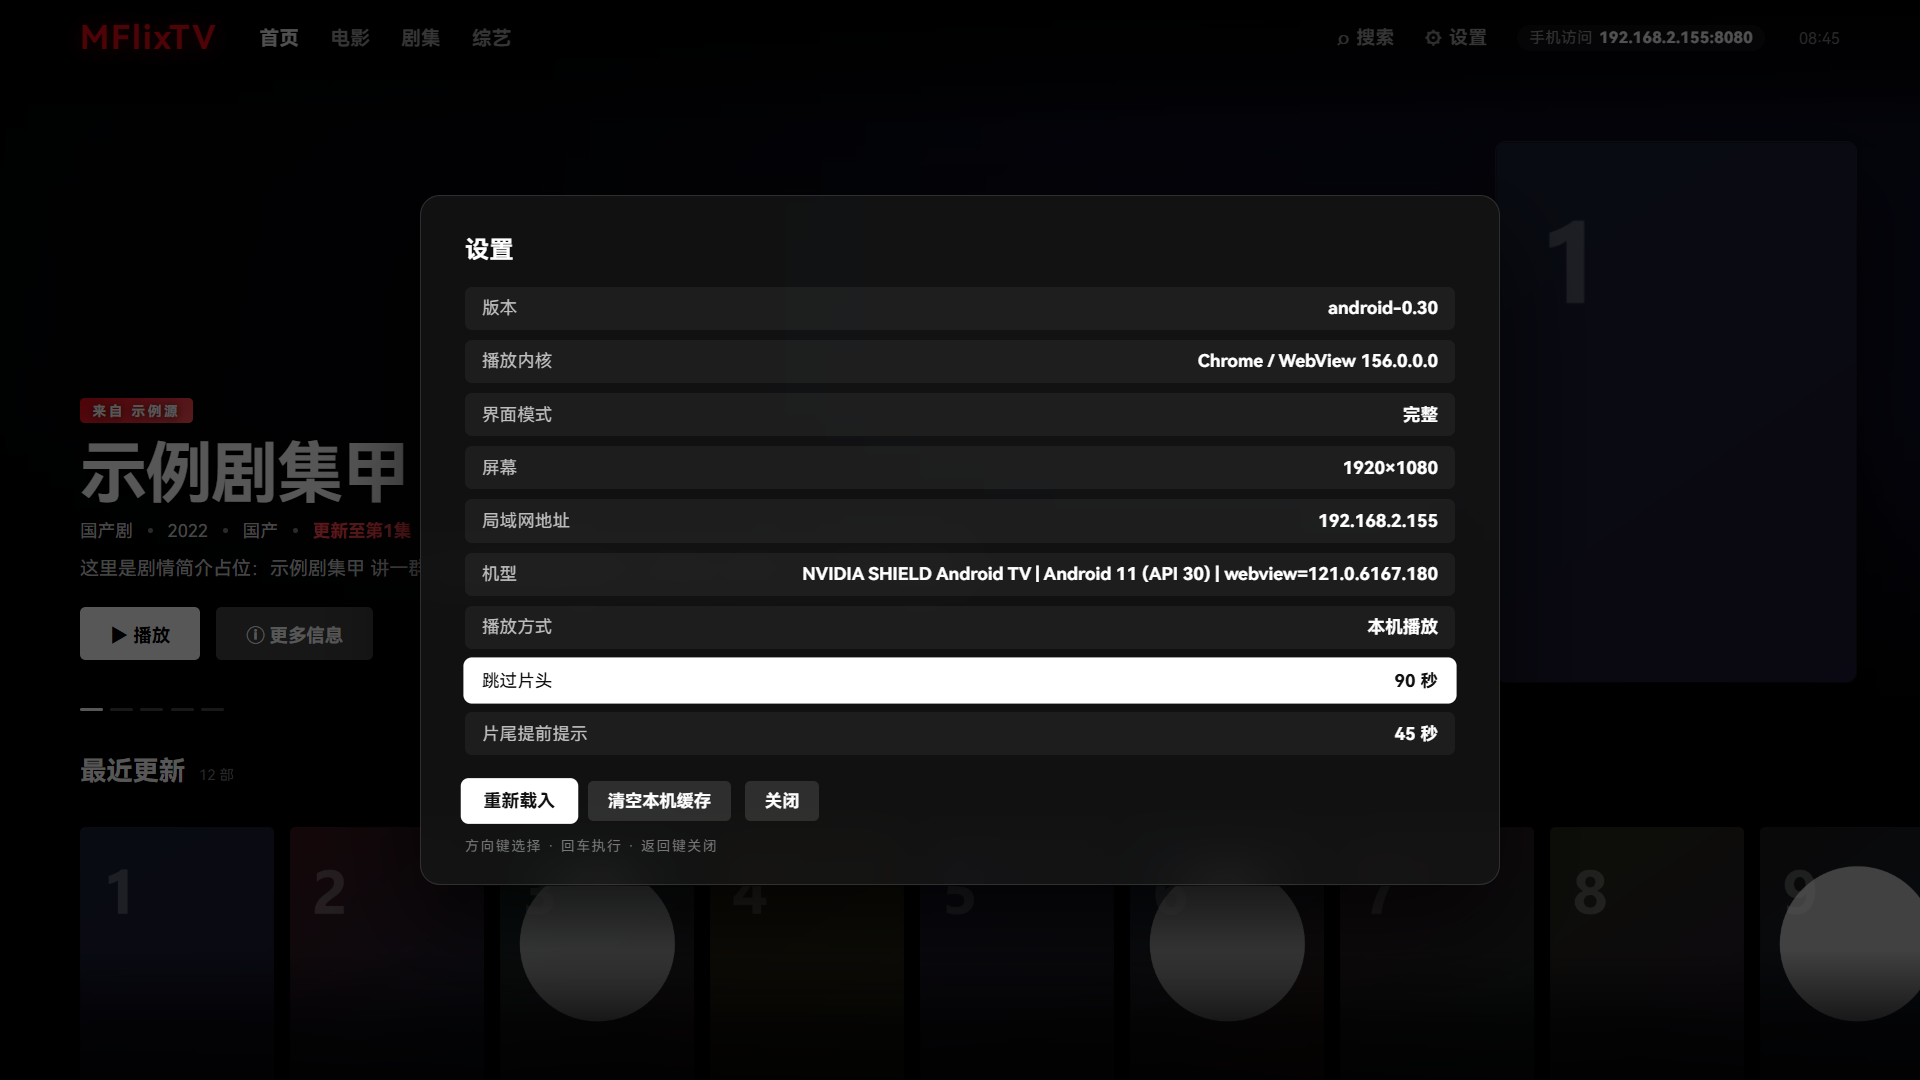
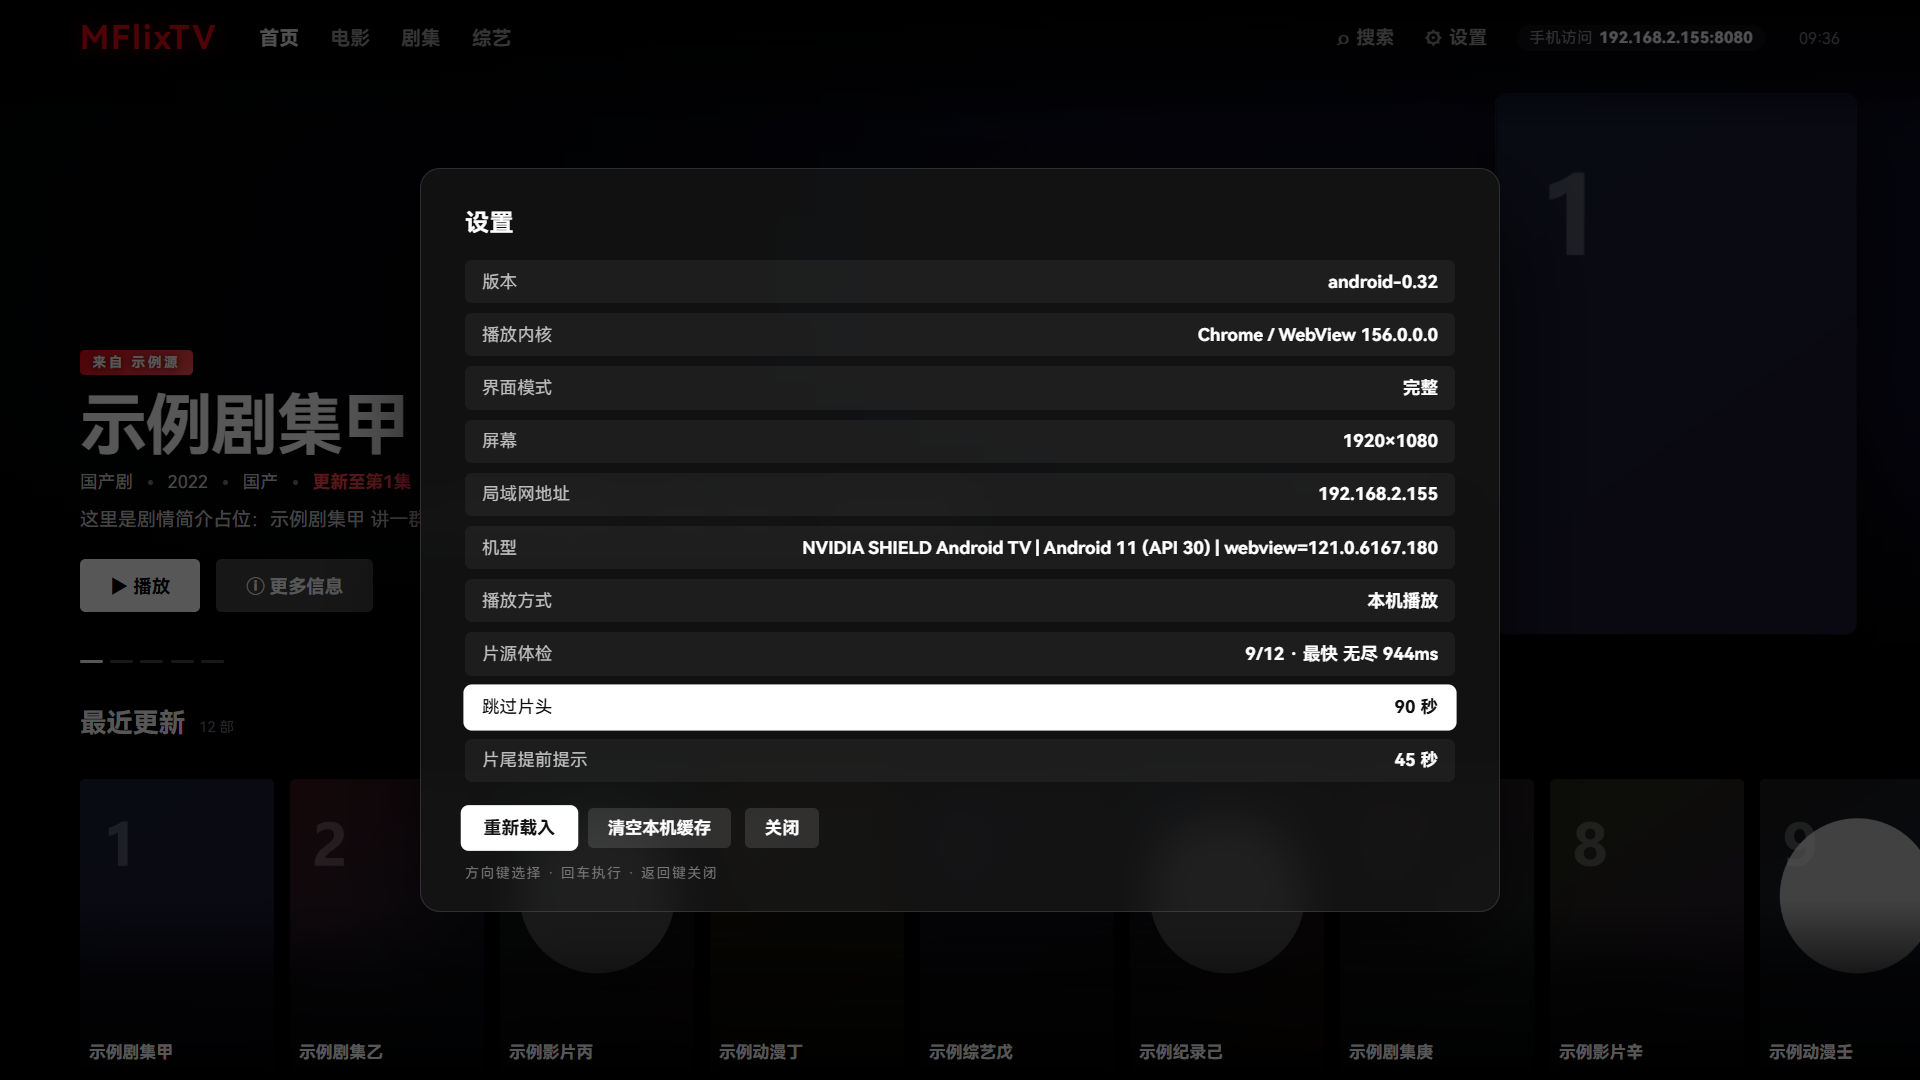
android 0.32 收尾：手机端源列表按延迟排 + 体检记录随源列表裁剪，文档与设置页截图补齐

diff --git a/android/app/src/main/assets/index.html b/android/app/src/main/assets/index.html
@@ -723,8 +723,12 @@
         <button id="sProxySave">保存代理</button>
         <button id="sProxyClear">清除</button>
       </div>
-      <div class="row-btns"><button class="primary" id="sDiag">源站自检</button></div>
+      <div class="row-btns">
+        <button class="primary" id="sDiag">源站测速</button>
+        <button id="sFix">重新获取片源</button>
+      </div>
       <div id="sDiagBox"></div>
+      <div class="hint">「源站测速」会并发打一遍所有源，按耗时排序，慢的沉到后面；一个都不通时会自动去远端把源清单拉回来。「重新获取片源」是手动触发同一件事。</div>
       <div class="hint">代理填手机上梯子的 HTTP 端口（v2ray / Clash 都可）。留空表示直连；改完会重新取一次片单。</div>
     </div>
 
@@ -2539,26 +2543,54 @@
   }
   $('sProxySave').onclick = function () { saveProxy(($('sProxyIn').value || '').trim()); };
   $('sProxyClear').onclick = function () { $('sProxyIn').value = ''; saveProxy(''); };
+  /** 手机端源列表：按体检结果排（通的、快的在前），并标出失败次数。 */
+  function paintHealth(d) {
+    var list = (d && d.list) || [];
+    var html = '<div class="hint">' + (d && d.ok ? d.ok : 0) + '/' + (d && d.total ? d.total : list.length) +
+      ' 个源可用' +
+      (d && d.fastest && d.fastest !== '—' ? ('　最快：' + esc(d.fastest)) : '') +
+      (d && d.ok === 0 ? '　<b style="color:#e5a100">一个都不通，已自动去远端找源</b>' : '') + '</div>';
+    list.forEach(function (s) {
+      var color = s.ok ? '#3ddc84' : '#e5a100';
+      html += '<div class="src-item" style="border-color:#161616"><div style="flex:1;min-width:0">' +
+        '<div class="nm">' + esc(s.name) + ' <span style="color:' + color + ';font-size:11px">' +
+        (s.ok ? ('通 · ' + (s.ms | 0) + 'ms · ' + (s.items | 0) + '条') : ('不通' + (s.fails > 1 ? ' ×' + s.fails : ''))) +
+        '</span></div>' +
+        '<div class="bs">' + esc(s.base) + (s.err ? ('<br><span style="color:#8a6d3b">' + esc(s.err) + '</span>') : '') +
+        '</div></div></div>';
+    });
+    $('sDiagBox').innerHTML = html;
+  }
   $('sDiag').onclick = function () {
-    $('sDiagBox').innerHTML = '<div class="hint">正在逐个探测（最多十几秒）…</div>';
-    fetch('/api/diag?force=1')
+    $('sDiagBox').innerHTML = '<div class="hint">正在并发测速（约 5 秒）…</div>';
+    fetch('/api/sources/health?force=1')
       .then(function (r) { return r.json(); })
       .then(function (d) {
-        var list = d.sources || [];
-        var html = '<div class="hint">' + (d.ok || 0) + '/' + list.length + ' 个源可用' +
-          (d.proxy ? ('　代理：' + esc(d.proxy)) : '　未设代理') + '</div>';
-        list.forEach(function (s) {
-          var color = s.ok ? '#3ddc84' : '#e5a100';
-          html += '<div class="src-item" style="border-color:#161616"><div style="flex:1;min-width:0">' +
-            '<div class="nm">' + esc(s.name) + ' <span style="color:' + color + ';font-size:11px">' +
-            (s.ok ? '通' : '不通') + ' · ' + (s.ms | 0) + 'ms</span></div>' +
-            '<div class="bs">' + esc(s.base) + (s.err ? ('<br><span style="color:#8a6d3b">' + esc(s.err) + '</span>') : '') +
-            '</div></div></div>';
-        });
-        $('sDiagBox').innerHTML = html;
+        paintHealth(d);
+        if (d && d.ok > 0) toast('片源可用 ' + d.ok + '/' + d.total);
+        else toast('一个源都不通，已在自动找源');
       })
-      .catch(function (e) { $('sDiagBox').innerHTML = '<div class="hint">自检失败：' + esc(e.message) + '</div>'; });
+      .catch(function (e) { $('sDiagBox').innerHTML = '<div class="hint">测速失败：' + esc(e.message) + '</div>'; });
   };
+  $('sFix').onclick = function () {
+    $('sDiagBox').innerHTML = '<div class="hint">正在从远端取源清单并测速…</div>';
+    fetch('/api/sources/autofix')
+      .then(function (r) { return r.json(); })
+      .then(function (d) {
+        paintHealth(d);
+        toast(d && d.added ? ('找回了 ' + d.added + ' 个新源') : '源清单已是最新');
+        fetch('/api/sources').then(function (r) { return r.json(); }).then(function (s) {
+          SET.list = s.list || [];
+          SET.builtin = s.builtin || [];
+          renderSources();
+        }).catch(function () {});
+        loadHome(true);
+      })
+      .catch(function (e) { $('sDiagBox').innerHTML = '<div class="hint">获取失败：' + esc(e.message) + '</div>'; });
+  };
+  /** 打开设置时先把上次的体检结果摆出来（不阻塞、不重测） */
+  fetch('/api/sources/health').then(function (r) { return r.json(); })
+    .then(paintHealth).catch(function () {});
   function renderSources() {
     var list = SET.list;
     $('sSrcCnt').textContent = list.length ? ('共 ' + list.length + ' 个') : '';

diff --git a/android/app/src/main/java/com/mflixtv/app/SourceHealth.kt b/android/app/src/main/java/com/mflixtv/app/SourceHealth.kt
@@ -146,6 +146,7 @@ object SourceHealth {
     }
 
     fun snapshot(): JSONObject {
+        prune()
         val arr = JSONArray()
         map.values.sortedWith(compareByDescending<H> { it.ok }.thenBy { if (it.ms == 0) 999999 else it.ms })
             .forEach {
@@ -193,6 +194,18 @@ object SourceHealth {
     }
 
     fun okCount(): Int = map.values.count { it.ok }
+
+    /**
+     * 用户在设置里删掉源以后，体检记录里还留着它 —— 列表里就会一直挂着一个「不通」的死条目。
+     * 每次取快照前按当前源列表裁一遍。
+     */
+    private fun prune() {
+        val alive = Sources.ALL.map { it.base }.toSet()
+        if (map.keys.any { it !in alive }) {
+            map = LinkedHashMap(map.filterKeys { it in alive })
+            persist()
+        }
+    }
 
     /**
      * 维护：缓存过期就跑一次体检；体检完一个源都不通，就自动去远端把源清单更新回来再测一遍。

diff --git a/README.md b/README.md
@@ -196,6 +196,7 @@ MFlixTV 页面 → /hg-api/* → 本机第三方内核 hongguo-web(127.0.0.1:800
 - **全屏与横屏**（0.15）：右下角「全屏」键走原生桥——真转横屏 + 收起状态栏 / 导航栏 + 屏幕常亮，再点回竖屏；旋转键是开关（横 ↔ 竖）。WebView 的 HTML5 全屏也补上了 `onShowCustomView`，`<video>` 自带的全屏键、返回键退全屏都能用。以前这键只弹一句「WebView 不支持系统全屏」、也不转横屏，属于真 bug（浏览器里打开同一个地址是全屏正常的，因为浏览器自己实现了全屏）
 - **iPhone / iPad 看网页版也能真全屏**（0.16 / 0.17）：别的手机用浏览器打开 `http://手机IP:8080` 时，iOS 的 Safari 和 Chrome 都没有元素级全屏 API（原来只会弹一句「不支持系统全屏」）。现在播放器全屏分三层——App 内走原生桥，电脑和安卓浏览器走标准全屏 API，iPhone / iPad 走 `<video>` 自带的 `webkitEnterFullscreen()` 系统全屏（横过来就是满屏）；万一机芯不给，600ms 后自动兜底成「页面内铺满 + 强制横屏」。iOS 上同时优先原生 HLS 硬解（更快更省电），**原生拉不动会自动退回 hls.js，不会出现「这个地址播不了」卡死**；代理返回分片时也按扩展名补 `video/mp2t` / `video/mp4` 类型，Safari 认这个
 - **电视版 TV 界面**（0.18）：**同一个 APK**，装到电视 / 电视盒子上会自动认出并进 10 英尺界面（Leanback / `UI_MODE_TYPE_TELEVISION` / 无触摸屏任一命中；也可 `adb shell am start -n com.mflixtv.app/.MainActivity --ez tv true` 强制），装在手机上还是原来的手机界面。顶部横排文字导航（首页 / 电影 / 剧集 / 综艺 / 搜索）；焦点在海报上滑动时整页背景与片名跟着换（停 240ms 才换，快速滑动不闪），焦点卡放大 1.16 倍 + 白描边 + 红辉光、同排其它压暗；详情页剧集是 16:9 卡片 5 列平铺，回车直接播；搜索用方向键走字母键盘，出结果后热门搜索自动收起。遥控器方向键 / 回车 / 菜单键由原生 `dispatchKeyEvent` 转给页面（WebView 自己那套一次会动两格），返回键分层退（播放器 → 详情 → 首页）。电视浏览器或电脑上想试电视界面，开 `http://手机IP:8080/tv`
+- **片源自动测速 / 后台维护 / 没源自己找回来（0.32）**：每次体检记下每个源的**延迟、返回条数、连续失败次数**，首页每一行与搜索按延迟从快到慢取源（真机实测：豪华 293ms → 非凡 373ms → 百度云 556ms → … 8/12 可用），连续失败 3 次的源沉到末尾不再参与取源、但不会从列表里删掉。体检缓存 30 分钟，过期后先给上次结果再后台重测；启动时补一次、常驻服务每 30 分钟敲一次。**一个源都不通时会自己去把源找回来**：按 jsDelivr → fastly → GitHub 原始链接 → ghproxy 镜像的顺序拉仓库根目录的 `sources.json`，合并去重写回本地再重测；拉不到就什么都不做，本地源原样保留。电视端设置页多一行「片源体检 9/12 · 最快 无尽 944ms」，按一下当场重测；手机端「源站测速」按延迟列出每个源，旁边是「重新获取片源」
 - **首屏整行可见 + 返回原地还原（0.31）**：首页大图以前写死 68vh，真机上第一行卡片底沿会掉出屏幕（1080p 多 38px、720p 多 26px），刚打开电视只能看到半张卡。现在按实测算——先按 68vh 摆好，量第一张卡的底沿，多出来多少就收多少（下限 0.44vh，矮窗口不会把片名顶掉），换分辨率 / 转屏 / 改 DPI 自动重算；1920×1080 收到 686、1280×720 收到 454、4:3 本来够就不动，三种形态实测整卡可见。另外，在第五行点开一部片再按返回，不再被弹回顶部：滚动位置和焦点卡都原地还原（记录行重建过就按片名重新认一次，还原时临时关掉「焦点自动滚进视野」免得位置被自己滚跑）
 - **电视端「继续观看 / 我的列表」+ 追剧连播（0.30）**：电视界面首页第一行不再是分类，而是**你这台机器上没看完的片子**——海报底部一条红色进度，上面一行「第N集 · 剩46分」，按一下**直接接着播**，自动找回上次的线路、集数、时间点（按集名优先认，对不上才退回序号），不用再进详情页翻选集；详情页多出第四颗按钮「+ 我的列表」，加过的会亮着，列表同样单独一行。一部没看过时这一行整个不出现。设置页新增两项可点设置，遥控器按一下切一档、不用输数字：**跳过片头**（关闭 / 30 / 60 / 90 / 120 / 150 / 180 秒，默认关闭，因为会真的挪播放位置）和**片尾提前**（关闭 / 20 / 30 / 45 / 60 秒，默认 45 秒，只提前把「接下来播放」叫出来、不动播放位置）。跳过片头只在**新起播**时生效，这一集本来有记录就优先续播、不被片头跳过打断；判断时长要「连续两次读数一致」才动手，刚拿到元数据时读到 0 或半截不会误判。播放中每 5 秒记一次位置，切后台、关页面、退出播放器、按 Home 都补记，退出即刷新首页那一行。手机端的播放设置面板同步加了这两项，与电视端共用同一份设置
 - **拖进度条看时间 + 倍速面板（0.29）**：进度条能点能拖（电视遥控左右仍是 ±10 秒），拖的时候上方冒一个「当前时间 / 总时长」气泡，跟着手指 / 滑块实时走，松手 1.2 秒后自己消失；气泡位置按屏幕算，拖到两头会往回收，不会顶出屏幕（1080p / 1280×720 / 1024×768 / 竖屏 390×844 / 横屏都量过）。倍速从「点一下轮一档」换成面板：7 档一眼选，当前速度高亮，选过的速度会记住（换集、换片、重开 App 都还是那个速度，写 `defaultPlaybackRate` 所以新一集 load 之后不被打回 1x）。另外，**Shield TV 的遥控器没有菜单键**，按钮条以前等于摸不到——现在**长按「确定」键**就能呼出（原生侧数按键重复次数，不给正常按键加延迟），菜单键仍然可用，第一次进播放页会提示一次

diff --git a/CHANGELOG.md b/CHANGELOG.md
@@ -1,5 +1,40 @@
 # 更新日志
 
+## Android 0.32 — 片源自动测速、后台维护，没源了自己把源找回来
+
+### 1. 片源按测速结果排序取源
+
+以前只知道「这个源通不通」，通就一起上，慢的源会拖住首屏。现在每次体检都记下**延迟、返回条数、连续失败次数**，首页每一行和搜索按延迟从快到慢取源，快的先上。
+
+真机 12 个源跑出来是这样：豪华 293ms、非凡 373ms、百度云 556ms、360 881ms、最大 1006ms、暴风 1089ms、无尽 1128ms、魔都 1810ms，**8 个可用**；卧龙（返回的是 HTML 被拦）、如意（连不上）、iKun（连接被重置）三个不通，连续失败 3 次后沉到列表末尾，不再参与首页取源，但**不会从列表里删掉**——源站偶尔抽风，删了反而少一个。
+
+### 2. 后台自己维护
+
+- 缓存 30 分钟：过期后打开首页或搜索会先给上次结果，同时在后台重测一份，页面不用等。
+- 开机 / 启动时补一次体检，不阻塞网页服务，源站慢也不影响首页先出缓存。
+- 常驻服务的看门狗（每 60 秒一跳）每 30 跳顺带敲一次体检，长期开着电视也不会拿着几天前的旧结论。
+
+### 3. 一个源都不通的时候，自己去把源找回来
+
+体检发现 **0 个可用**，会按顺序去几个地址拉最新源清单：
+
+```
+jsDelivr CDN → fastly 镜像 → GitHub 原始链接 → ghproxy 镜像
+```
+
+拿到清单后**合并去重**（已有的保留原来的名字和 key），写回本地，然后再测一遍。远端拉不到就什么都不做，本地源原样保留——绝不把用户手里的源清空。
+
+实测：把源列表换成 2 个不存在的域名再让它体检，它自己从 jsDelivr 拉回 12 个源、测出 8 个可用，全程不用手动干预。仓库根目录的 `sources.json` 就是这份清单，以后源站换域名改这一个文件，客户端下次自愈就拿到新的。
+
+### 4. 界面上能看到、也能手动触发
+
+- 电视端：设置页多一行「**片源体检**」，显示「9/12 · 最快 无尽 944ms」，遥控器按一下当场重测；一个都不通时数字标红。
+- 手机端：设置 → 网络里「源站测速」按延迟列出每个源（通了显示耗时和返回条数，不通显示失败次数和原因），旁边加「重新获取片源」手动触发自愈。
+
+### 5. 修掉一个自己挖的坑
+
+体检记录以前不会跟着源列表走：在设置里删掉的源，会一直留在体检结果里显示「不通」。现在每次取体检结果前按当前源列表裁一遍。
+
 ## Android 0.31 — 首屏不再切掉半张卡 + 返回首页原地还原
 
 ### 1. 首页第一行以前只露半张卡
